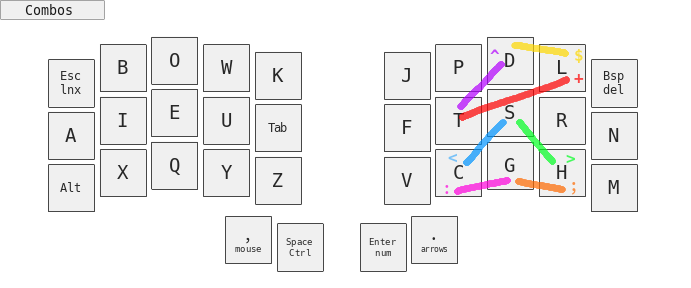
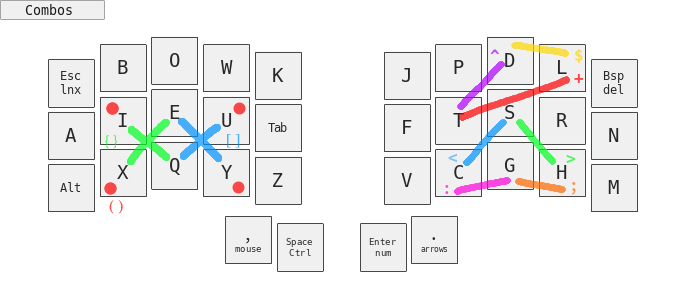
Up leader

diff --git a/features/leader.c b/features/leader.c
@@ -53,11 +53,11 @@ void matrix_scan_user(void) {
       send_unicode_string("¢"); }
 
     // Fractions
-    SEQ_THREE_KEYS(KC_Q, KC_S, KC_T) {
+    SEQ_THREE_KEYS(KC_F, KC_C, KC_T) {
       send_unicode_string("¼"); }
-    SEQ_THREE_KEYS(KC_Q, KC_S, KC_G) {
+    SEQ_THREE_KEYS(KC_F, KC_C, KC_G) {
       send_unicode_string("½"); }
-    SEQ_THREE_KEYS(KC_H, KC_S, KC_T) {
+    SEQ_THREE_KEYS(KC_F, KC_H, KC_T) {
       send_unicode_string("¾"); }
 
     // Maths
@@ -209,13 +209,13 @@ void matrix_scan_user(void) {
       send_unicode_string("🐦"); }
 
     // Subscript / superscript
-    SEQ_THREE_KEYS(KC_U, KC_P, KC_C) {
+    SEQ_THREE_KEYS(KC_U, KC_P, KC_F) {
       send_unicode_string("⁰"); }
-    SEQ_THREE_KEYS(KC_D, KC_N, KC_C) {
+    SEQ_THREE_KEYS(KC_D, KC_N, KC_F) {
       send_unicode_string("₀"); }
-    SEQ_THREE_KEYS(KC_U, KC_P, KC_Q) {
+    SEQ_THREE_KEYS(KC_U, KC_P, KC_C) {
       send_unicode_string("¹"); }
-    SEQ_THREE_KEYS(KC_D, KC_N, KC_Q) {
+    SEQ_THREE_KEYS(KC_D, KC_N, KC_C) {
       send_unicode_string("₁"); }
     SEQ_THREE_KEYS(KC_U, KC_P, KC_G) {
       send_unicode_string("²"); }
@@ -237,9 +237,9 @@ void matrix_scan_user(void) {
       send_unicode_string("⁶"); }
     SEQ_THREE_KEYS(KC_D, KC_N, KC_R) {
       send_unicode_string("₆"); }
-    SEQ_THREE_KEYS(KC_U, KC_P, KC_V) {
+    SEQ_THREE_KEYS(KC_U, KC_P, KC_P) {
       send_unicode_string("⁷"); }
-    SEQ_THREE_KEYS(KC_D, KC_N, KC_V) {
+    SEQ_THREE_KEYS(KC_D, KC_N, KC_P) {
       send_unicode_string("₇"); }
     SEQ_THREE_KEYS(KC_U, KC_P, KC_D) {
       send_unicode_string("⁸"); }

diff --git a/config.h b/config.h
@@ -1,17 +1,12 @@
 /*
-    2022
+    FLinguenheld 2023
 */
 
 #pragma once
 
 /* Select hand configuration */
-// #define MASTER_LEFT
-#define MASTER_RIGHT
-
-// Useless ?
-// #ifdef CONVERT_TO_ELITE_PI
-// #   define USB_VBUS_PIN 19U
-// #endif
+#define MASTER_LEFT
+// #define MASTER_RIGHT
 
 
 // --------------------------------------------------------------------------------

diff --git a/keymap.c b/keymap.c
@@ -1,8 +1,7 @@
 /*
-QMK keymap for the crkbd keyboard 3x6
-Flo 2022
+QMK keymap for the Aurora sweep keyboard
+FLinguenheld 2023
 
-https://github.com/foostan/crkbd
 https://docs.qmk.fm/#/
 */
 

diff --git a/README.md b/README.md
@@ -29,7 +29,8 @@ and :
 
 [qmk](https://docs.qmk.fm/#/)  
 [ferris sweep](https://github.com/davidphilipbarr/Sweep)  
-[splitkb](https://splitkb.com)
+[splitkb](https://splitkb.com)  
+[bépo](https://bepo.fr/wiki/Accueil)
 
 #### Keymap
 
@@ -38,23 +39,35 @@ Use the standard us keymap :
 
     setxkbmap -layout us
 
-#### Combos
+#### Layouts
 
-|     French       |                        |
+![base](images/base.png)  
+![numeric](images/numeric.png)  
+![mouse](images/mouse.png)  
+![arrows](images/arrows.png)  
+![adjust](images/adjust.png)  
+![fn](images/fn.png)  
+![combo](images/combos.png)  
+![combo2](images/combos2.png)  
+
+#### French
+
+|        -         |                        |
 |------------------|------------------------|
-|   é + i          |   ç                    |
-|   é + a          |   æ                    |
-|   é + o          |   œ                    |
-|   space + a      |   à                    |
-|   space + e      |   è                    |
-|   space + i      |   ì                    |
-|   space + o      |   ò                    |
-|   space + u      |   ù                    |
-|   comma + a      |   â                    |
-|   comma + e      |   ê                    |
-|   comma + i      |   î                    |
-|   comma + o      |   ô                    |
-|   comma + u      |   û                    |
+|   space + e      |   é                    |
+|   space + i      |   ç                    |
+|   space + a      |   æ                    |
+|   space + o      |   œ                    |
+|   comma + a      |   à                    |
+|   comma + e      |   è                    |
+|   comma + i      |   ì                    |
+|   comma + o      |   ò                    |
+|   comma + u      |   ù                    |
+|   enter + a      |   â                    |
+|   enter + e      |   ê                    |
+|   enter + i      |   î                    |
+|   enter + o      |   ô                    |
+|   enter + u      |   û                    |
 |   dot + a        |   ä                    |
 |   dot + e        |   ë                    |
 |   dot + i        |   ï                    |
@@ -82,8 +95,8 @@ Use the standard us keymap :
 |   P + I + I        |   Π                    |
 |   O + M + E        |   ω                    |
 |   O + M + E + G    |   Ω                    |
-|   U + P + C        |   ⁰                    |
-|   D + N + C        |   ₀                    |
+|   U + P + F        |   ⁰                    |
+|   D + N + F        |   ₀                    |
 
 | -                  |                        |
 |--------------------|------------------------|
@@ -96,9 +109,9 @@ Use the standard us keymap :
 |   I + N + F        |   ∞                    |
 |   < + <            |   ≤                    |
 |   > + >            |   ≥                    |
-|   Q + S + T        |   ¼                    |
-|   Q + S + G        |   ½                    |
-|   H + S + T        |   ¾                    |
+|   F + S + T        |   ¼                    |
+|   F + S + G        |   ½                    |
+|   F + H + T        |   ¾                    |
 
 | -                  |                        |
 |--------------------|------------------------|
@@ -114,14 +127,3 @@ Use the standard us keymap :
 |   !                |   ❕                   |
 |   ? + ?            |   ❓                   |
 |   ! + !            |   ❗                   |
-
-#### Layouts
-
-![base](https://raw.githubusercontent.com/FLinguenheld/sweep_keymap/main/images/base.png "layout")  
-![numeric](https://raw.githubusercontent.com/FLinguenheld/sweep_keymap/main/images/numeric.png "layout")  
-![mouse](https://raw.githubusercontent.com/FLinguenheld/sweep_keymap/main/images/mouse.png "layout")  
-![arrows](https://raw.githubusercontent.com/FLinguenheld/sweep_keymap/main/images/arrows.png "layout")  
-![adjust](https://raw.githubusercontent.com/FLinguenheld/sweep_keymap/main/images/adjust.png "layout")  
-![fn](https://raw.githubusercontent.com/FLinguenheld/sweep_keymap/main/images/fn.png "layout")  
-![combo](https://raw.githubusercontent.com/FLinguenheld/sweep_keymap/main/images/combos.png "layout")  
-![combo2](https://raw.githubusercontent.com/FLinguenheld/sweep_keymap/main/images/combos2.png "layout")  
